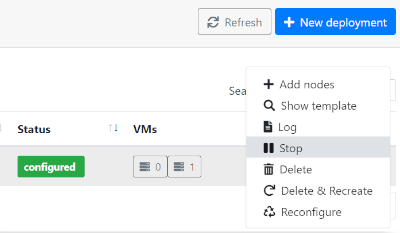
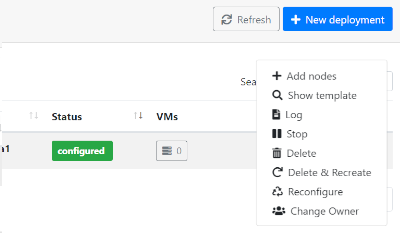
Update IM-Dashboard docs, adding new Change/Add Owner infrastructure operation (#440)
* Add change user op
* Rephrasing
* Fix typos, run prettier

diff --git a/content/en/users/compute/orchestration/im/dashboard/_index.md b/content/en/users/compute/orchestration/im/dashboard/_index.md
@@ -22,8 +22,8 @@ Functionalities:
 - Add nodes to an infrastructure
 - Resize VMs
 
-{{% alert title="Tip" color="info" %}} More details about installing
-and configuring the dashboard are available in the
+{{% alert title="Tip" color="info" %}} More details about installing and
+configuring the dashboard are available in the
 [IM Dashboard documentation](https://imdocs.readthedocs.io/en/latest/dashboard.html).
 {{% /alert %}}
 
@@ -41,8 +41,8 @@ provided by the IM service. In case you need more advanced features use the
 ### Login
 
 Users must use [EGI Check-in](../../../../aai/check-in) to log into the
-dashboard. Once authenticated, they will be redirected to the portfolio
-of available TOSCA templates.
+dashboard. Once authenticated, they will be redirected to the portfolio of
+available TOSCA templates.
 
 ![Portfolio page](dash_configure.png)
 
@@ -50,16 +50,16 @@ of available TOSCA templates.
 
 The main menu bar is located at the top of the pages:
 
-- The first button `IM Dashboard` enables the user to go to the the portfolio of
+- The first button `IM Dashboard` enables the user to go to the portfolio of
   available TOSCA templates.
 - Second item `Infrastructures` redirects to the list of current user deployed
   infrastructures.
-- In the `Advanced` item the `Settings` subitem displays some
-  configuration settings as the URL of the IM service or the OIDC issuer.
-- `External Links` show a set of configurables information links (documentation,
+- In the `Advanced` item the `Settings` sub-item displays some configuration
+  settings as the URL of the IM service or the OIDC issuer.
+- `External Links` show a set of configurable information links (documentation,
   video tutorials, etc.)
-- Finally, on the right top corner, appears the `User` menu item. This item shows
-  the full name of the logged user, and an avatar obtained from
+- Finally, on the right top corner, appears the `User` menu item. This item
+  shows the full name of the logged user, and an avatar obtained from
   [Gravatar](https://www.gravatar.com/). In this menu the user can access their
   `Cloud Credentials` with the cloud providers or log out from the application.
 
@@ -73,20 +73,20 @@ the selected cloud credentials.
 ![List of Cloud Credentials](dash_cred_list.png)
 
 Editing or adding the credentials will show a modal form where the user has the
-ability to specify all the parameters needed to access the supported cloud providers.
-In particular, for [Cloud Compute](../../../cloud-compute) sites the
+ability to specify all the parameters needed to access the supported cloud
+providers. In particular, for [Cloud Compute](../../../cloud-compute) sites the
 user only has to select one of the VOs he is member of and one of sites that
-supports that VO. These dropdown fields are generated using the information
+supports that VO. These drop-down fields are generated using the information
 available from the sites and the list of VOs the user is member of.
 
-![Edit/Add a Crecential](dash_edit_cred.png)
+![Edit/Add a Credential](dash_edit_cred.png)
 
 ### TOSCA Templates
 
 The list of available TOSCA templates enables the user to select the required
 topology to deploy. Each TOSCA template can be labelled by the TOSCA developer
-with any tag that will show a ribbon displayed on the right bottom corner.
-The special `elastic` tag is used to mark templates that are configured to
+with any tag that will show a ribbon displayed on the right bottom corner. The
+special `elastic` tag is used to mark templates that are configured to
 automatically manage the elasticity of the deployed cluster.
 
 The user must click on the `Configure` button to set the input values of the
@@ -102,26 +102,26 @@ simplify the selection of input values.
 ![TOSCA input values.](dash_inputs.png)
 
 The final tab will be the `Cloud Provider Selection`. In this tab the user first
-has to select one of the Cloud providers that has been previously added (and
-not disabled) in the `Cloud Credentials` page, then has to select the base
-image used to deploy the VMs. In case of EGI Cloud Compute sites, the user has
-two options: he can select an image from the list of images provided by the
+has to select one of the Cloud providers that has been previously added (and not
+disabled) in the `Cloud Credentials` page, then has to select the base image
+used to deploy the VMs. In case of EGI Cloud Compute sites, the user has two
+options: he can select an image from the list of images provided by the
 [EGI AppDB information system](https://appdb.egi.eu/) or from the list provided
 directly by the Cloud site.
 
-Other providers will only show a dropdown list with the available images.
-Only in the case of AWS Cloud provider the user has to specify manually the AMI
-ID of the image.
+Other providers will only show a drop-down list with the available images. Only
+in the case of AWS Cloud provider the user has to specify manually the AMI ID of
+the image.
 
 ![Select Cloud Provider and Image](dash_site.png)
 
 ### Infrastructures
 
-This page lists the infrastructures deployed by the user.
-The first column shows the name set by the user on infrastructure creation,
-then shows the ID assigned by the IM service, the third column shows the current
-status of the infrastructure, the fourth show the list of VMs with their IDs and
-finally a button with a set of actions appears.
+This page lists the infrastructures deployed by the user. The first column shows
+the name set by the user on infrastructure creation, then shows the ID assigned
+by the IM service, the third column shows the current status of the
+infrastructure, the fourth show the list of VMs with their IDs and finally a
+button with a set of actions appears.
 
 ![List of infrastructures.](dash_inf_list.png)
 
@@ -133,11 +133,11 @@ infrastructures:
 ![List of infrastructure Actions](dash_inf_actions.png)
 
 - Add nodes: The Add nodes action enables to add new VMs to the users'
-  deployment. It will show the list of the different types of nodes
-  currently deployed in the infrastructure and the user must set the number
-  of nodes of each type he wants to deploy.
+  deployment. It will show the list of the different types of nodes currently
+  deployed in the infrastructure and the user must set the number of nodes of
+  each type he wants to deploy.
 
-   ![Add nodes page](dash_add_nodes.png)
+  ![Add nodes page](dash_add_nodes.png)
 
 - Show template: This action shows the original TOSCA template submitted to
   create the infrastructure.
@@ -148,38 +148,48 @@ infrastructures:
 
 - Start: Starts/Resumes a previously stopped infrastructure.
 
-- Outputs: Shows the outputs of the TOSCA template. Private key of
-  credentials can be downloaded as a file or copied to the clipboard.
+- Outputs: Shows the outputs of the TOSCA template. Private key of credentials
+  can be downloaded as a file or copied to the clipboard.
 
-   ![TOSCA outputs](dash_outputs.png)
+  ![TOSCA outputs](dash_outputs.png)
 
-- Delete: Delete this infrastructure and all the asociated resources. It also
-  has the option to force the deletion. In this case the infrastructure will
-  be removed from the IM service even if some cloud resources cannot be deleted.
+- Delete: Delete this infrastructure and all the associated resources. It also
+  has the option to force the deletion. In this case the infrastructure will be
+  removed from the IM service even if some cloud resources cannot be deleted.
   **Only use this option if you know what you are doing**.
 
-- Delete & Recreate: Delete this infrastructure as the previous option, but
-  once it is deleted it will redirect to the infrastructure creation form, with
-  all the input fields filled with the same set of values used to create the
-  deleted infrastructure.
+- Delete & Recreate: Delete this infrastructure as the previous option, but once
+  it is deleted it will redirect to the infrastructure creation form, with all
+  the input fields filled with the same set of values used to create the deleted
+  infrastructure.
 
 - Reconfigure: Starts the reconfiguration of the infrastructure.
 
+- Change User: Add or change the ownership of the infrastructure at IM level.
+  Providing a valid `Access Token` of another user, the infrastructure can be
+  shared or transferred to them. If `Overwrite` is checked, the new user will be
+  the unique owner of the infrastructure (transferring), otherwise it will be
+  added to the list of current users (sharing). **The new user must be member of
+  the VO used to create the resources**, otherwise he will not be able to manage
+  them.
+
+  ![Change/Add User modal form](dash_change_user.png)
+
 ### VM Info page
 
-The VM Info page shows all the information about the selected VM and
-enables to manage the lifecycle of it. On the top right corner the `Manage VM`
-dropdown menu allows to Stop/Start, Reboot, Resize, Reconfigure and Terminate
-the VM. Furthermore the user can check the error or contextualisation log of this
+The VM Info page shows all the information about the selected VM and enables to
+manage the lifecycle of it. On the top right corner the `Manage VM` drop-down
+menu allows to Stop/Start, Reboot, Resize, Reconfigure and Terminate the VM.
+Furthermore the user can check the error or contextualisation log of this
 particular VM.
 
-The VM infomation is splitted in two dofferent tables, the first one with the
-main information: State, IPs, HW features and the SSH credentials needed to
-access it. The second table shows additional fields.
+The VM information is split in two different tables, the first one with the main
+information: State, IPs, HW features and the SSH credentials needed to access
+it. The second table shows additional fields.
 
 ![VM Info page](dash_vm_info.png)
 
-When resizing the VM the user must provide the new size of the VM in terms
-of number of CPUs and amount of memory as shown in the figure below:
+When resizing the VM the user must provide the new size of the VM in terms of
+number of CPUs and amount of memory as shown in the figure below:
 
 ![VM Resize modal form.](dash_vm_resize.png)
